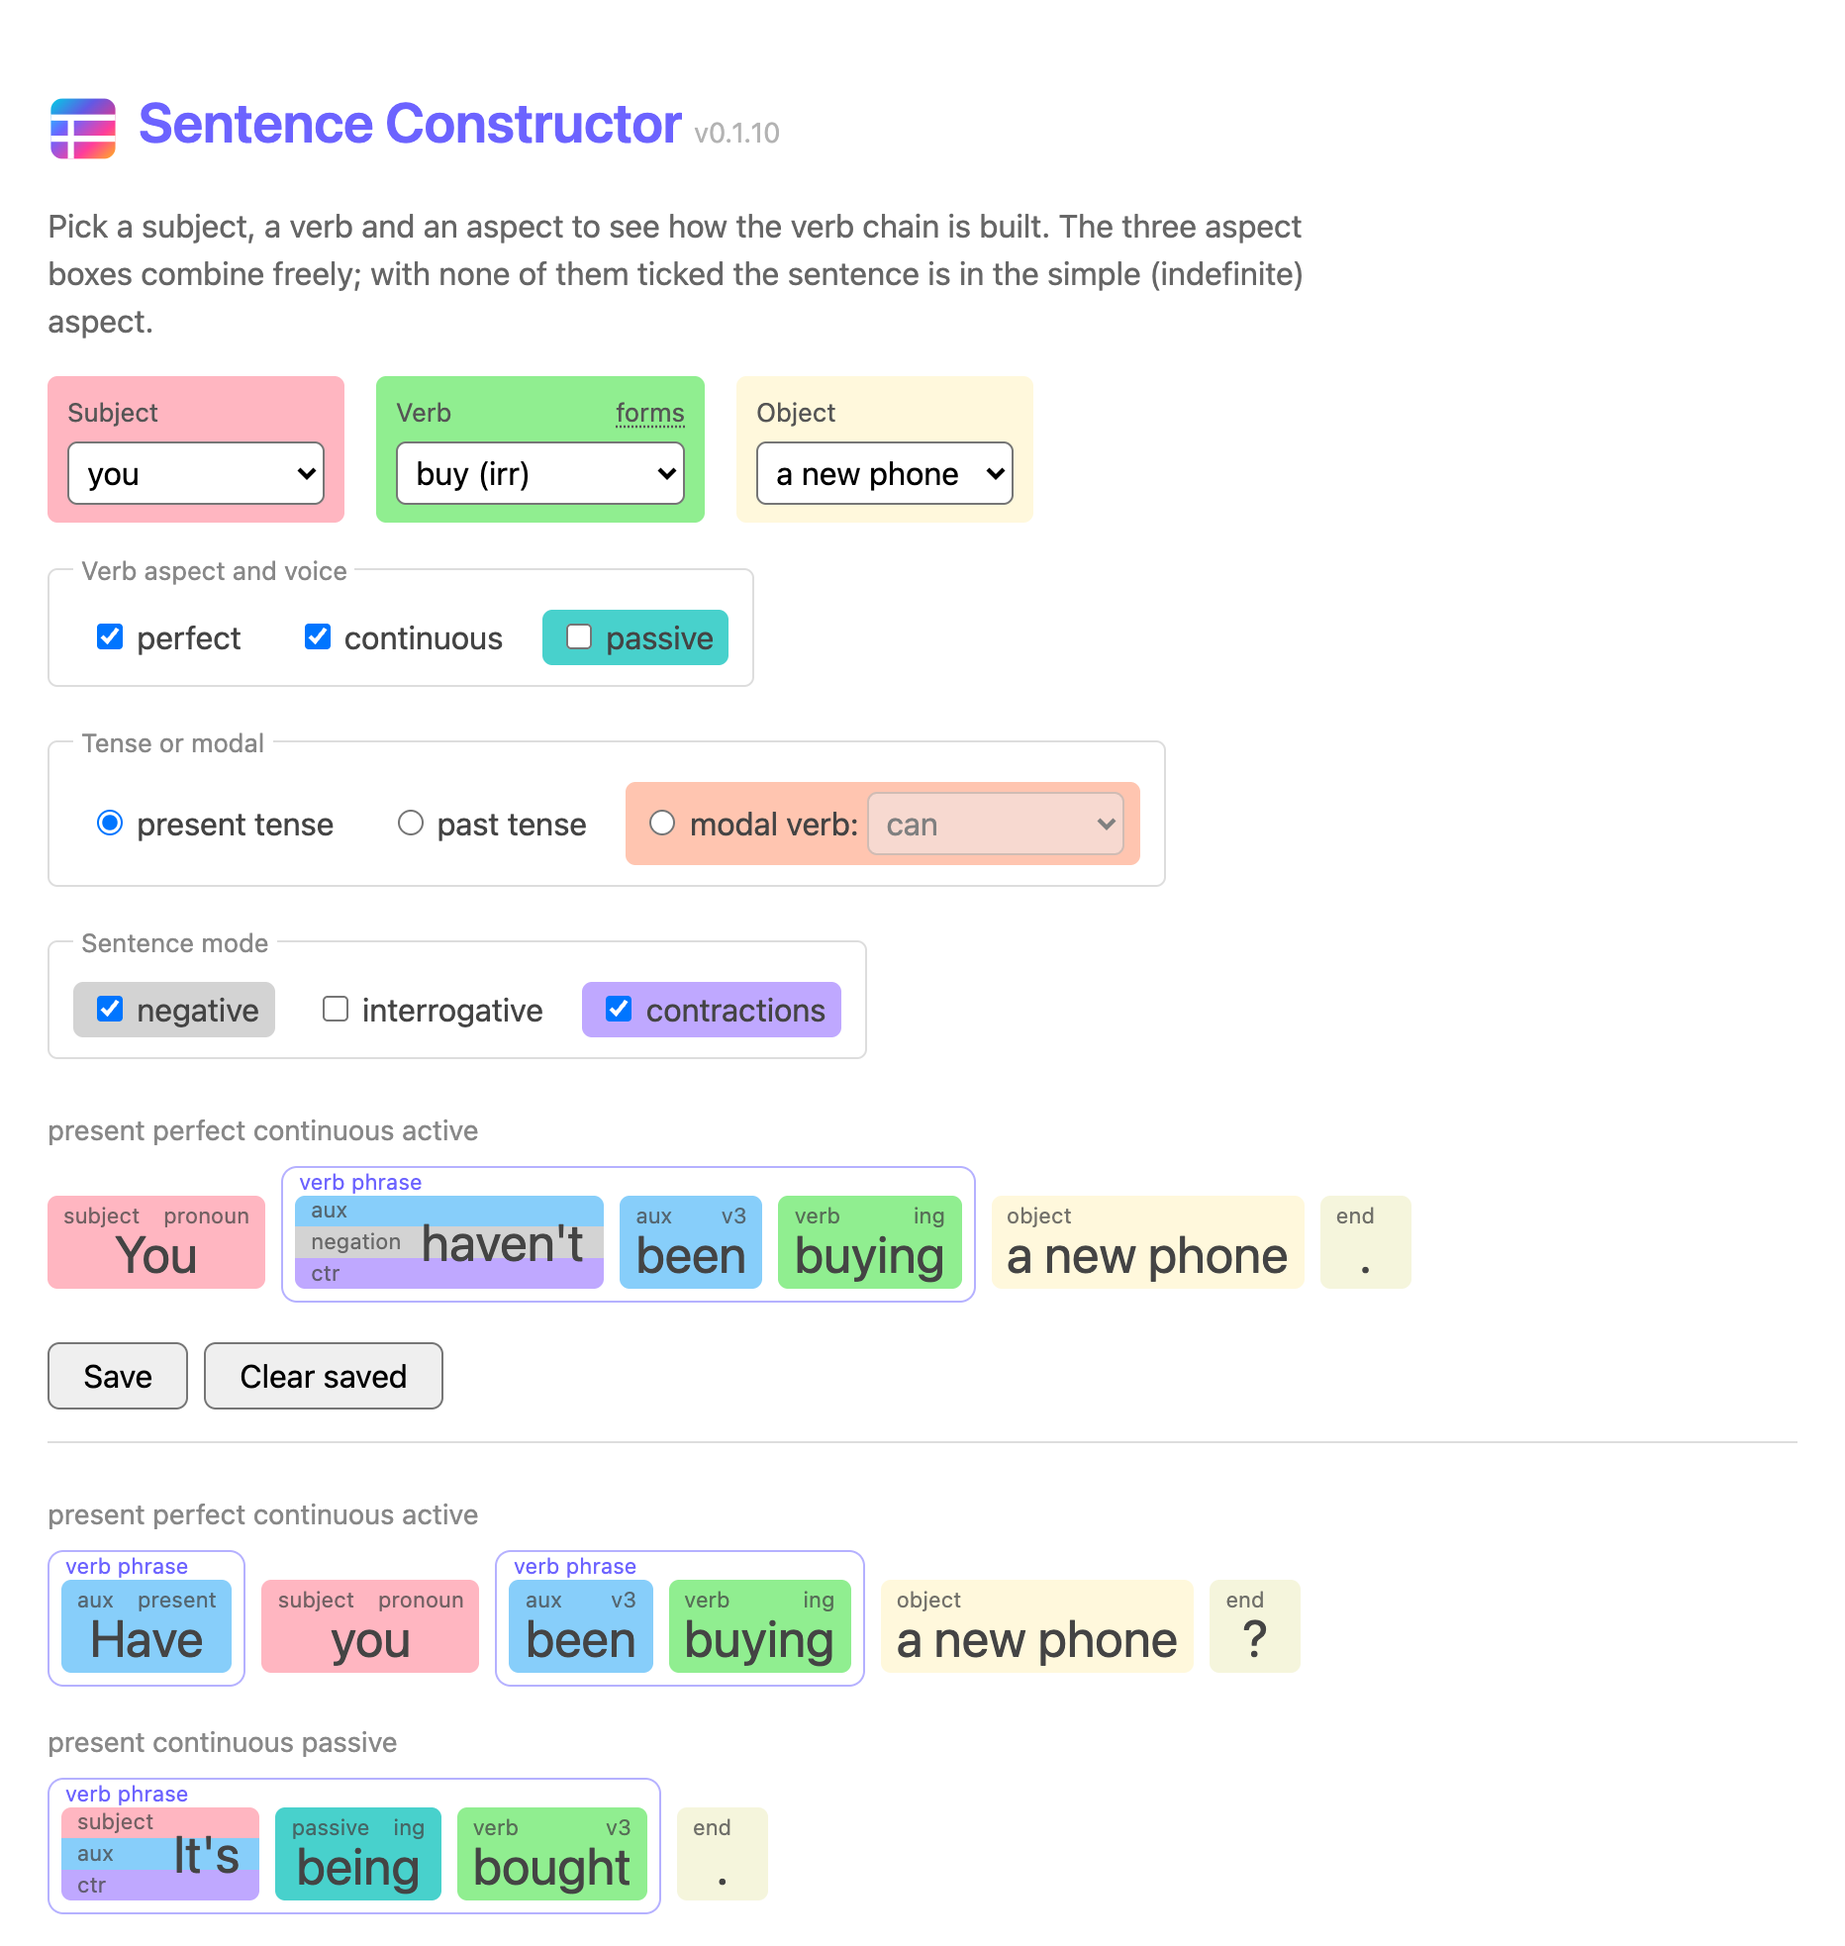
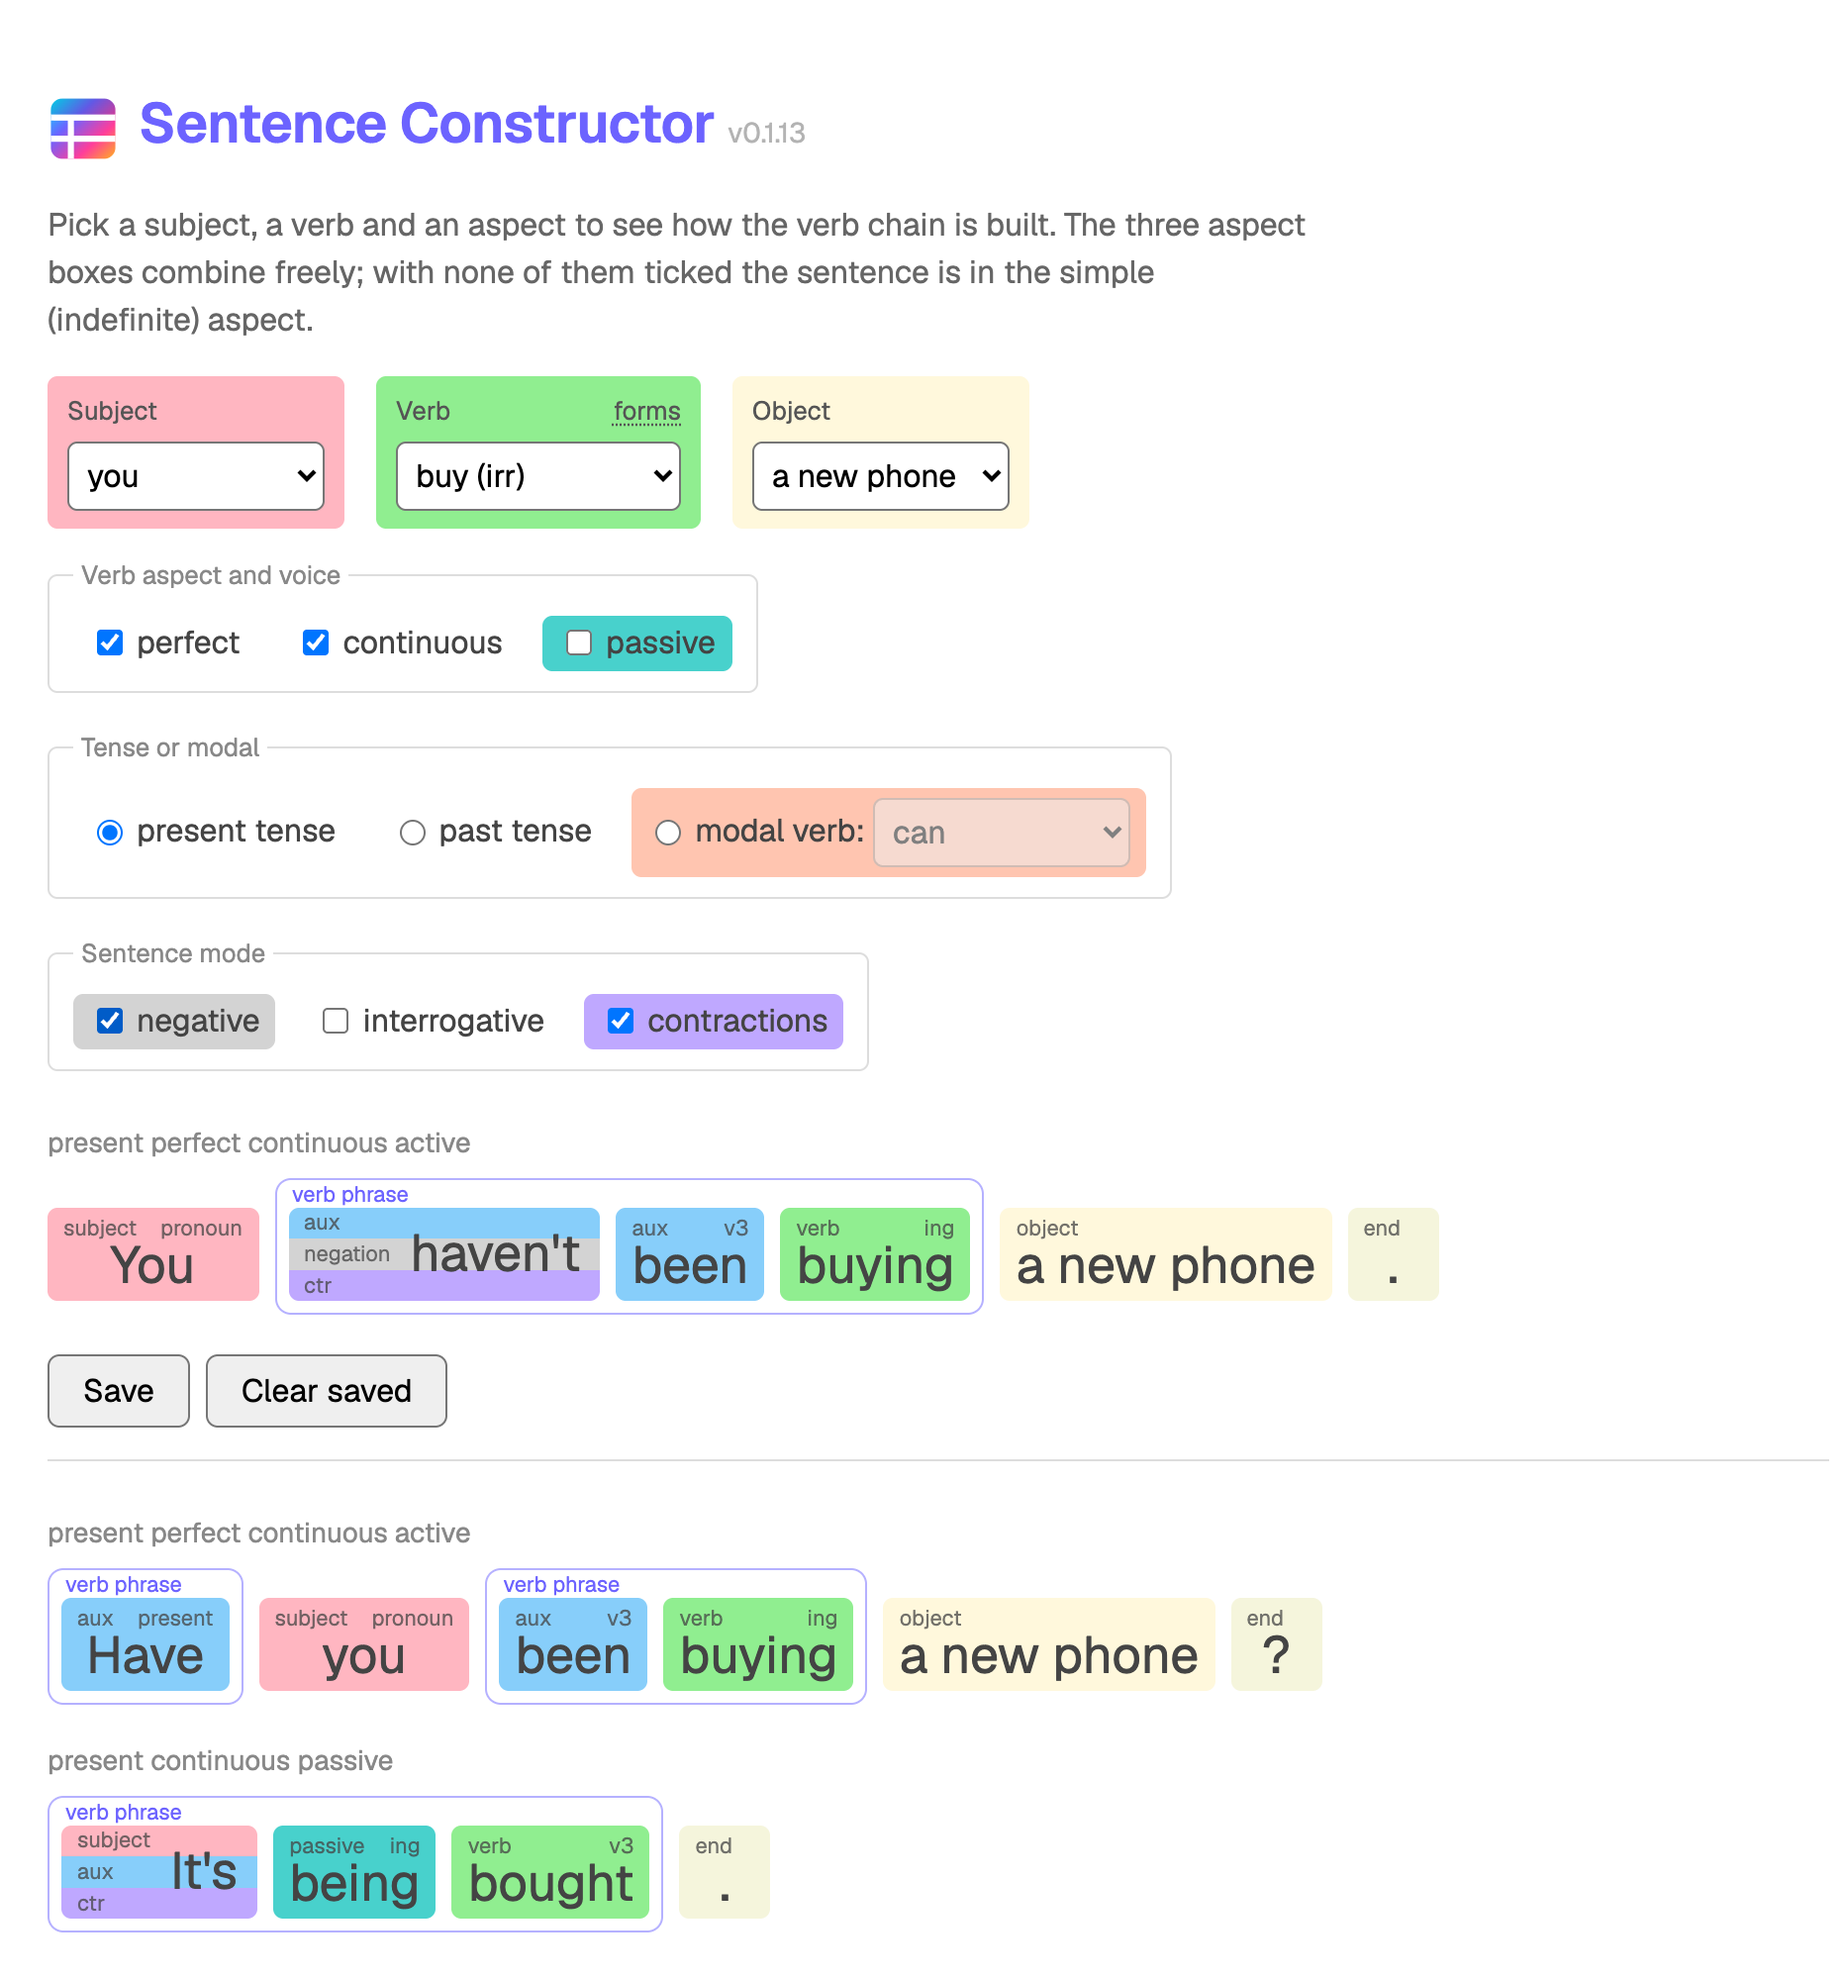
Retake the README screenshot in Geist and note the font in CLAUDE.md

diff --git a/CLAUDE.md b/CLAUDE.md
@@ -20,7 +20,7 @@ Conventions used so far: split the work into logical commits (docs in their own)
 
 **Sentence Constructor**: a Svelte 5 + Vite + Tailwind CSS v4 + TypeScript app, live at https://axln.github.io/eng-tense-aspect/ (repository `axln/eng-tense-aspect`, public). It replaces the big English tense tables: the user picks a subject, verb, object and aspect, and it generates the sentence for every tense/aspect/voice/negation/question combination, drawing each word as a tile labelled and coloured by its grammatical role. The audience is ESL learners and their teachers. It is a static site with no backend. Yarn Classic is the package manager (`yarn.lock`); tests use vitest; there is no ESLint or Prettier. It is MIT licensed (`LICENSE`, and `"license": "MIT"` in `package.json`), copyright Alexey Nesterenko.
 
-`README.md` is for GitHub visitors, with a screenshot in `docs/screenshot.png` (taken at v0.1.10). Keep the facts in it checkable (it states 7 pronouns, 114 verbs, 11 modals) and retake the screenshot if the UI changes noticeably.
+`README.md` is for GitHub visitors, with a screenshot in `docs/screenshot.png` (taken at v0.1.13). Keep the facts in it checkable (it states 7 pronouns, 114 verbs, 11 modals) and retake the screenshot if the UI changes noticeably.
 
 ## Commands
 
@@ -75,7 +75,7 @@ The three aspect checkboxes (perfect, continuous, passive) map straight onto `ve
 
 ### Styling (Tailwind v4)
 
-Tailwind comes in through `@tailwindcss/vite` (before the Svelte plugin in `vite.config.ts`), and `src/app.css` is its entry: `@import "tailwindcss"`, then the design tokens in `@theme static` (the system UI font stack, `--color-brand`, and the `--color-role-*` colours). There are no `<style>` blocks; components are styled with utility classes in the markup. Things that will bite:
+Tailwind comes in through `@tailwindcss/vite` (before the Svelte plugin in `vite.config.ts`), and `src/app.css` is its entry: `@import "tailwindcss"`, then the design tokens in `@theme static` (the Geist font, bundled from `@fontsource-variable/geist` and imported in `main.ts` so no CDN is involved, `--color-brand`, and the `--color-role-*` colours). There are no `<style>` blocks; components are styled with utility classes in the markup. Things that will bite:
 
 - **Class names must appear in the source in full.** Tailwind finds them by reading the text, so `bg-role-${role}` generates nothing and fails silently. `Word.svelte` keeps an explicit `roleBackground` lookup for this reason; `App.svelte` writes its repeated class strings out as constants (`field`, `select`, `chip`, `button`). Compose classes with Svelte's clsx-style `class` value, not string interpolation or the `class:` directive: `class={[field, "bg-role-object", { "opacity-45": objects.length === 0 }]}` (an array of strings, with objects for the conditional ones; falsy entries are dropped). Every class name in it is still a complete string literal, so Tailwind finds it.
 - **Only `.svelte` files are scanned for class names** (`@import "tailwindcss" source(none)` plus `@source "./**/*.svelte"` in `app.css`). Tailwind's default is to read every text file, which turned the class names quoted in this file into unused CSS. The flip side: a class name written in a `.ts` file generates nothing, so keep class strings in the components.
